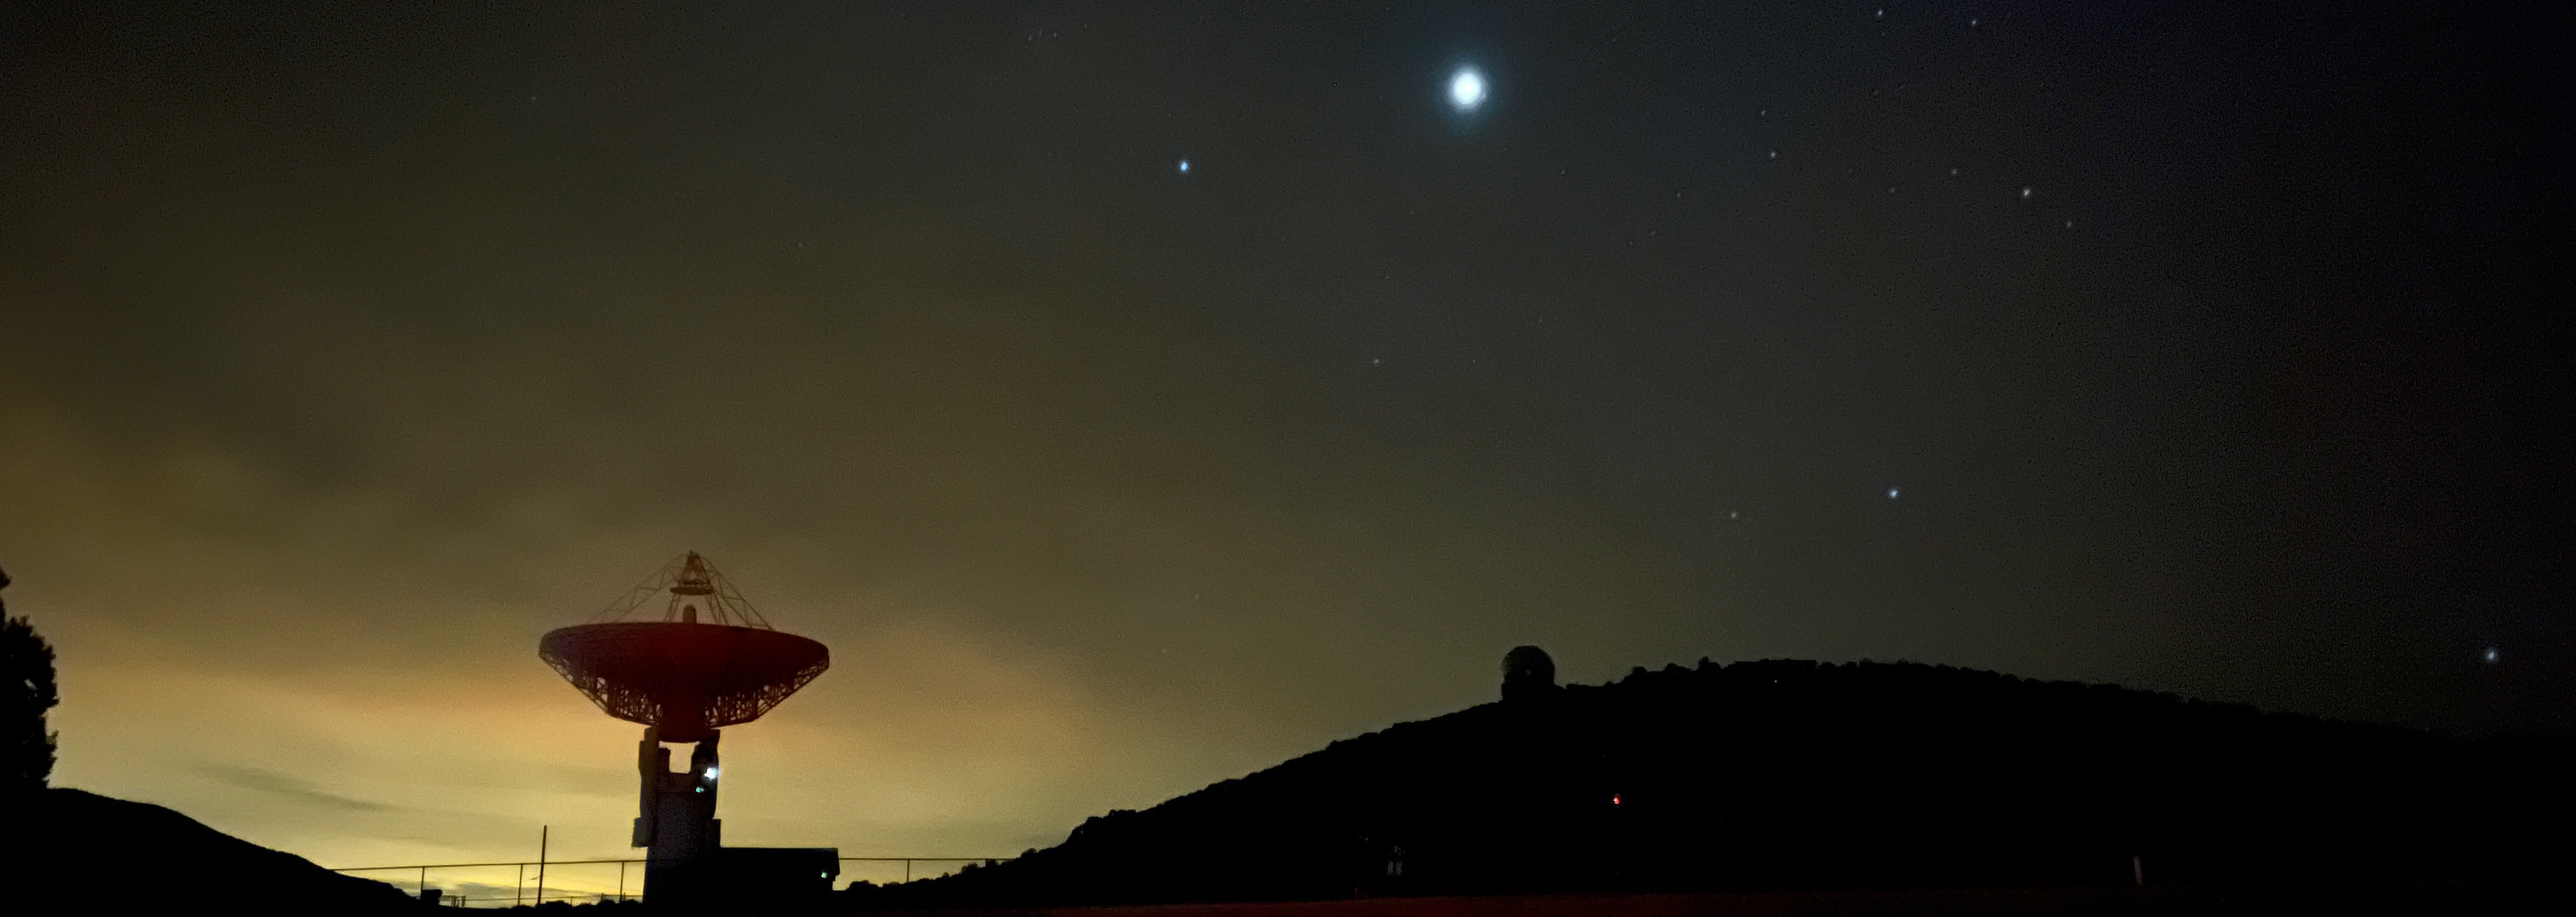
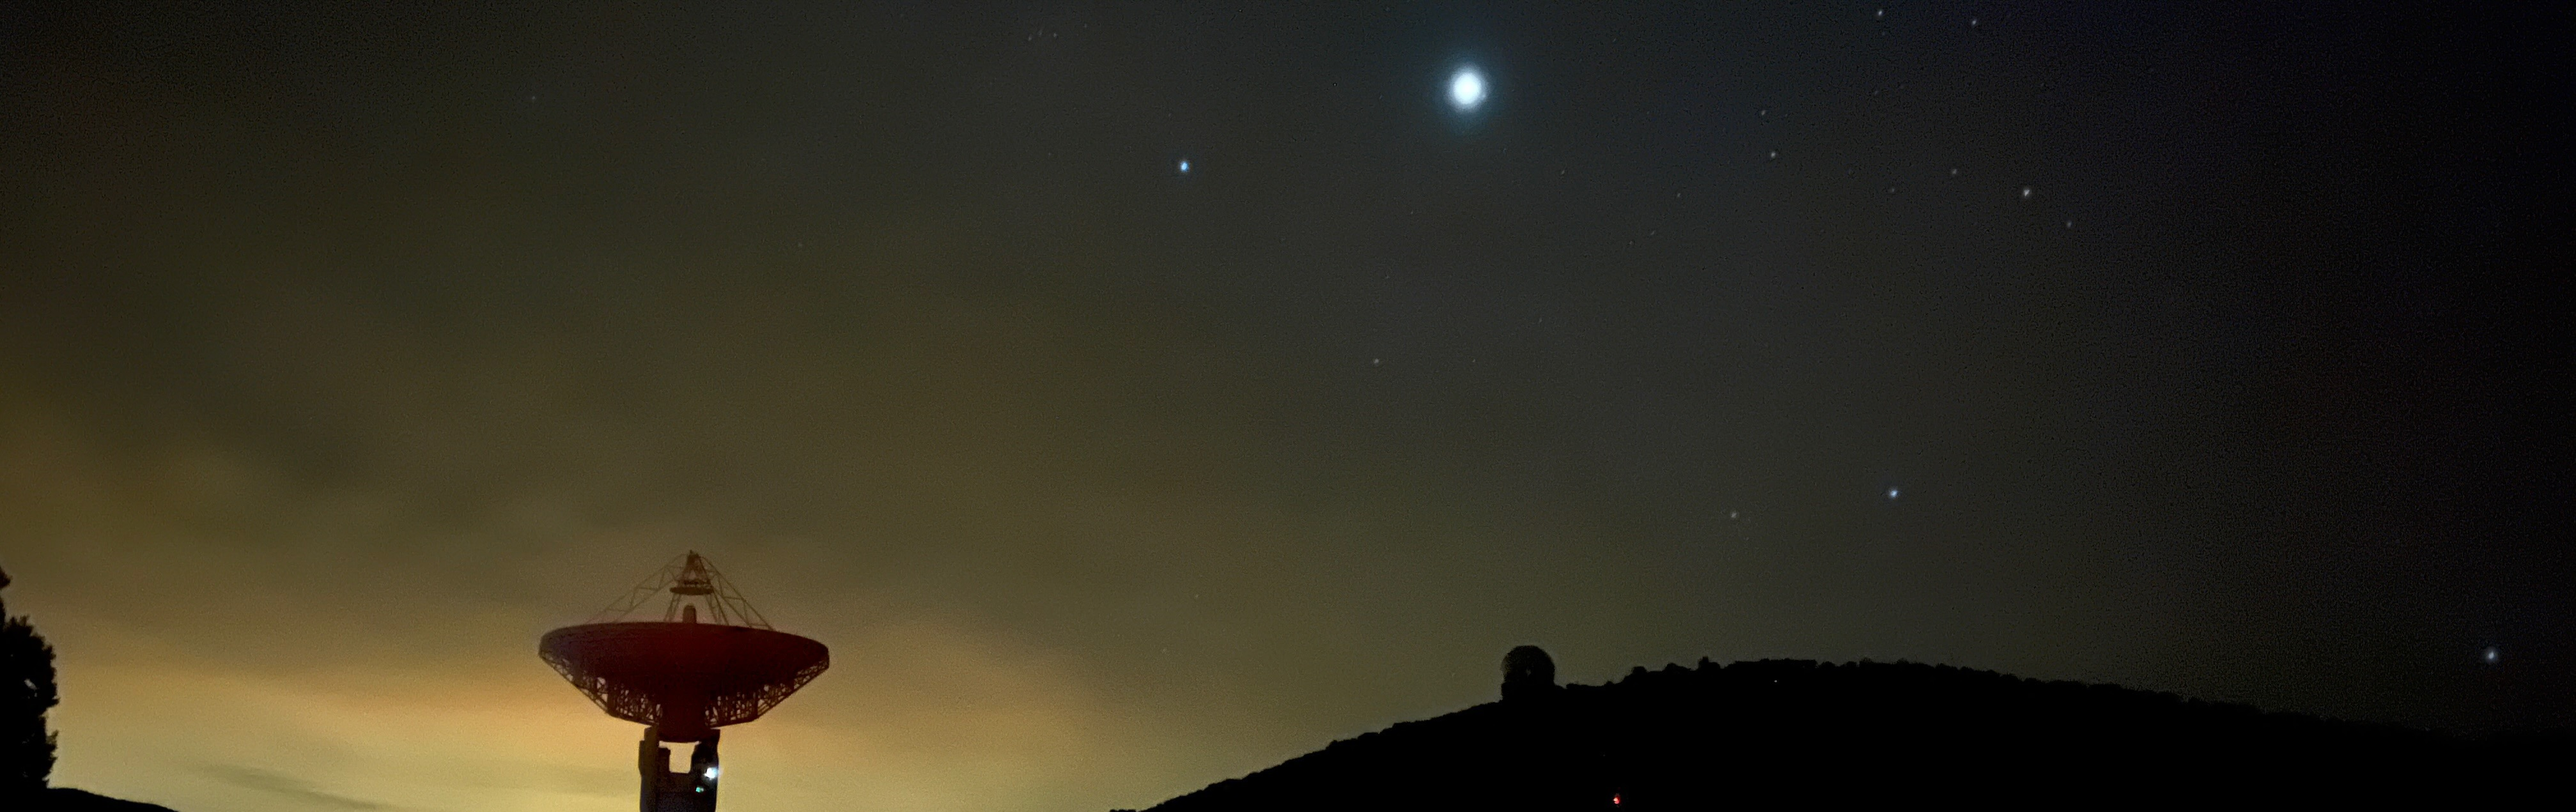
update bg photo

Changed region(s): [[0.0, 0.583, 0.8995, 1.0], [0.5583, 0.0614, 0.5893, 0.1534], [0.9615, 0.7978, 0.9926, 0.8285]]

diff --git a/index.md b/index.md
@@ -54,7 +54,7 @@ title: Home
     background: linear-gradient(rgba(0, 0, 0, 0.2), rgba(0, 0, 0, 0.2)), url('photos/website-bg.webp') !important;
     background-size: cover !important;
     background-position: bottom !important;
-    padding: 60px 0 !important;
+    padding: 55px 0 !important;
     text-align: center !important;
     width: 100vw !important;
     position: relative !important;
